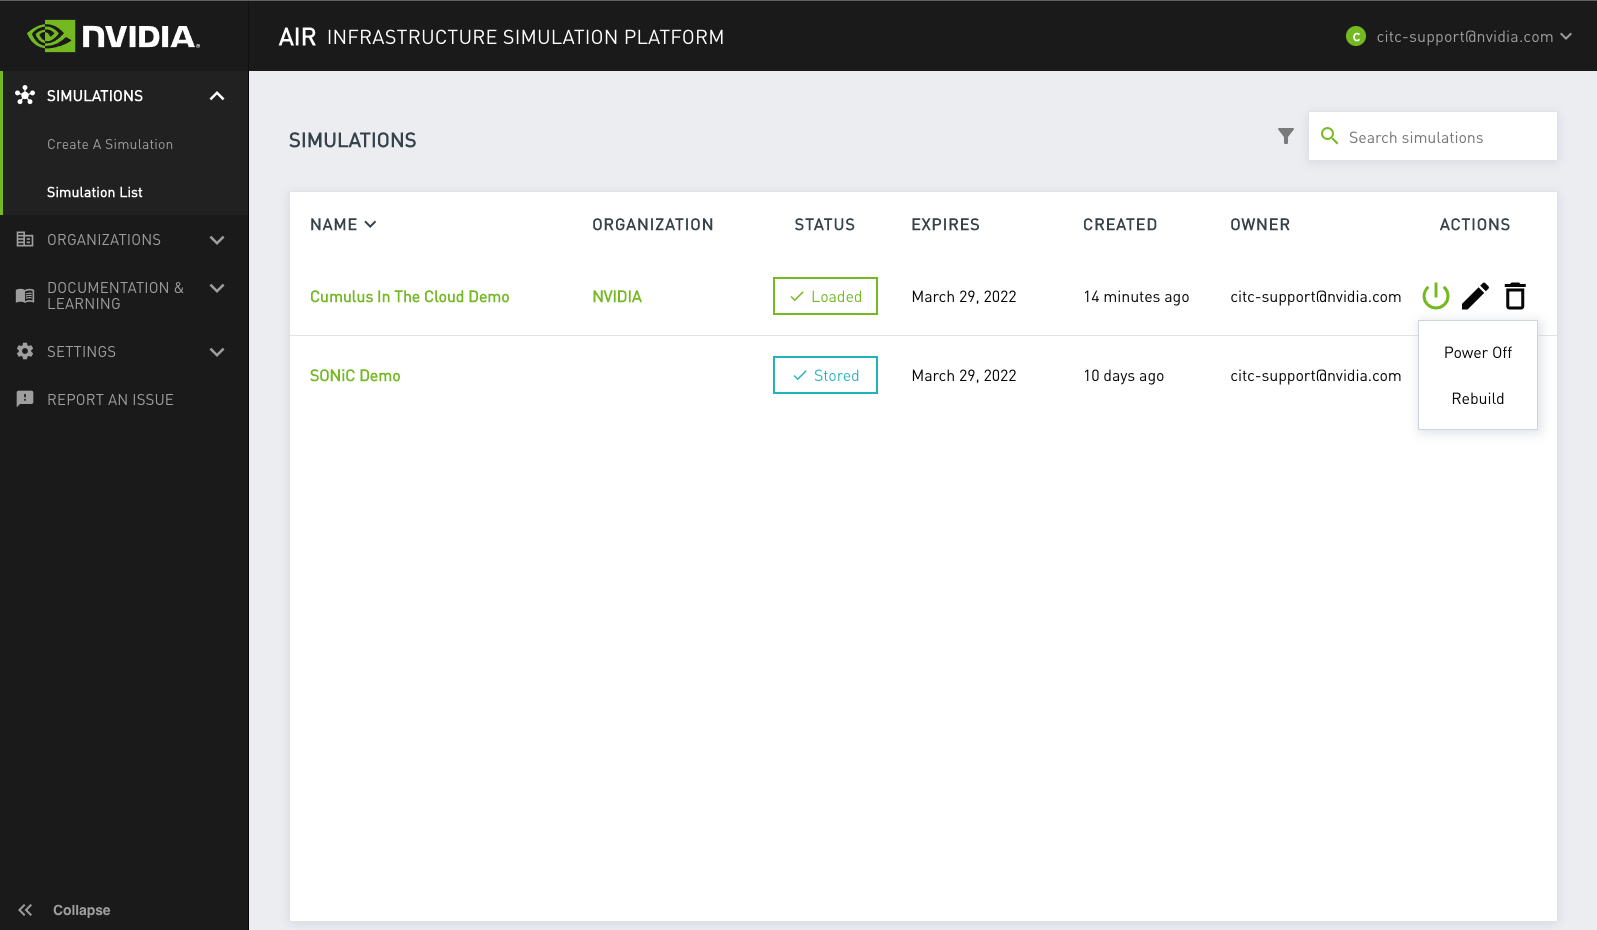
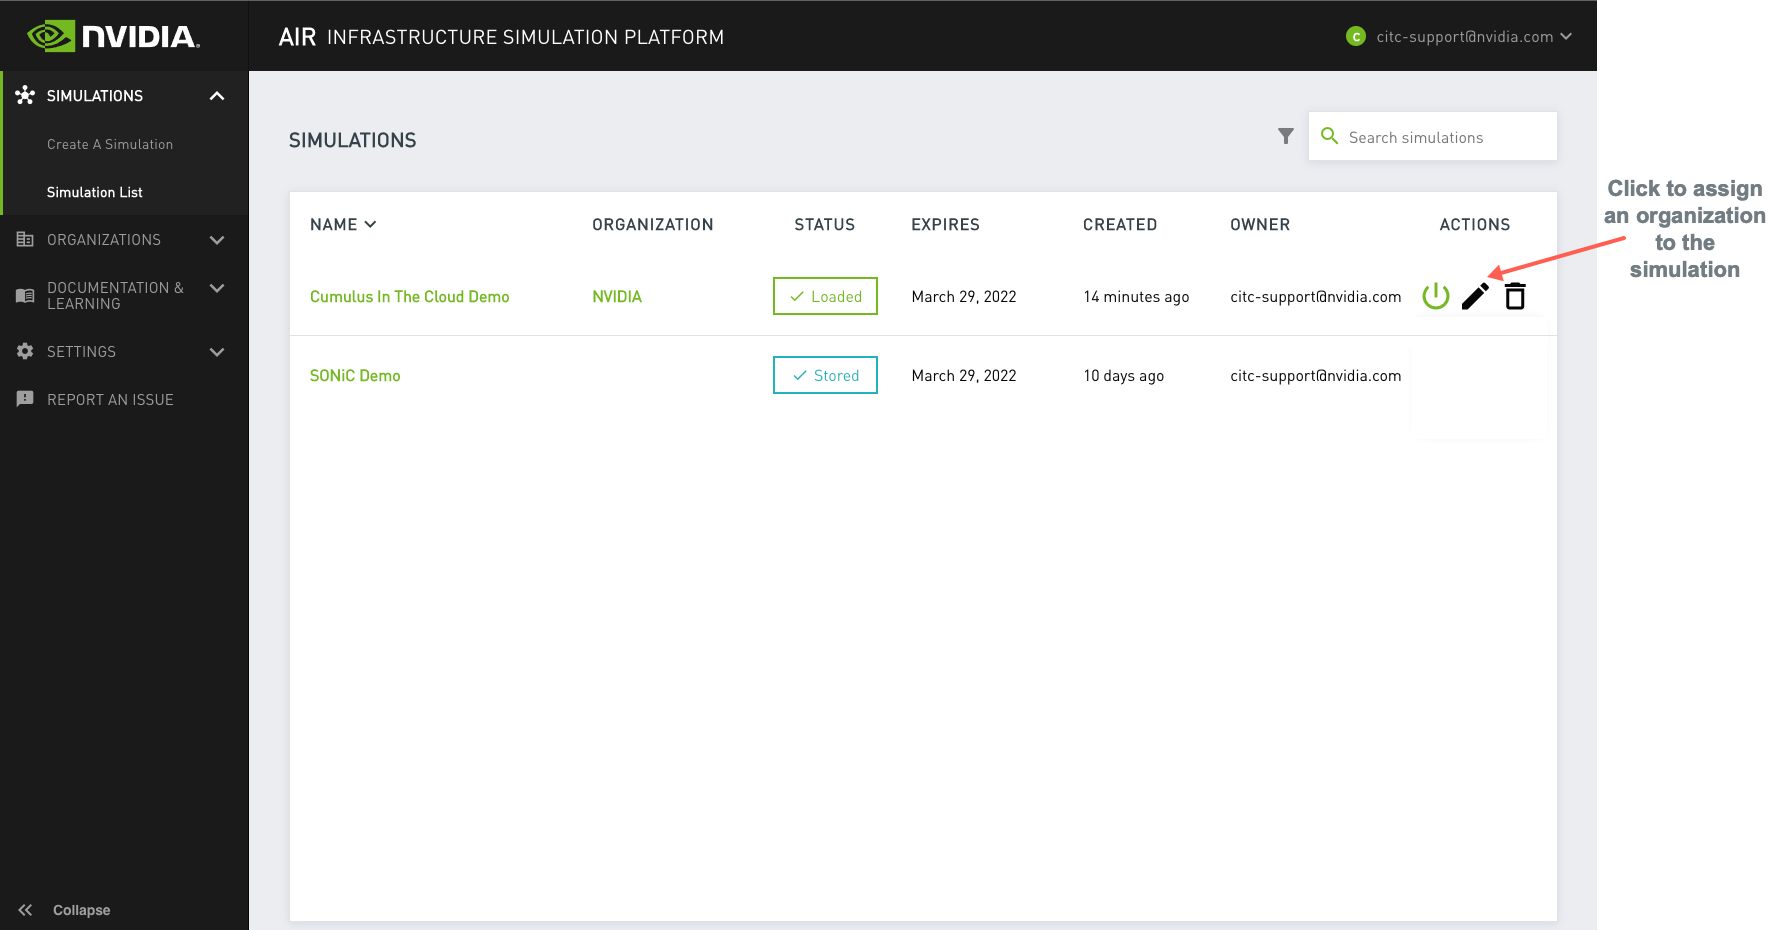
updates

diff --git a/content/guides/nvidia-air/Organizations.md b/content/guides/nvidia-air/Organizations.md
@@ -7,23 +7,23 @@ product: NVIDIA Air
 <!-- vale off -->
 NVIDIA Air supports collaboration so that you can share simulations with your colleagues in an organization. To join an organization, contact your Organization Administrator or your NVIDIA sales team. If you do not know who your Organization Administrator is, reach out to citc-support@nvidia.com.
 <!-- vale on -->
-## Working with organizations
+## Assign Organizations
 
 You can assign each simulation to an organization in which you are a member. All members of the organization can view all assigned simulations.
 
-In the simulation list, the **Organizations** column shows the organization in which the simulation belongs.
+In the simulation list, the **ORGANIZATION** column shows the organization to which the simulation belongs.
 
 {{<img src="/images/guides/nvidia-air/ManagingSim.png" width="800px">}}
 
 <div style="margin-top: 20px;"></div>
 
-To assign a simulation to an organization, use the **ORGANIZATION** dropdown menu from the **EDIT SIMULATION** window.
+To assign a simulation to an organization, click the Edit icon to open the **EDIT SIMULATION** window. Select the organization from the **ORGANIZATION** dropdown menu.
 
 {{<img src="/images/guides/nvidia-air/EditSim.png">}}
 
-## Managing an organization
+## Manage Organizations
 
-As an Organization Administrator, the organization details page show a list of current members, their roles, and the resource utilization for all simulations in the organization.
+As an Organization Administrator, you can view details about each organization, such the list of current members, their roles, and the resource utilization for all simulations in the organization.
 
 {{<img src="/images/guides/nvidia-air/OrgDetails.png">}}
 
@@ -35,7 +35,7 @@ To add a new member, click the **Add Member** button and enter the email address
 
 To remove a member, select **Remove Member** from the actions menu. Removing a member from an organization also moves all their simulations out of the organization.
 
-## Deleting an organization
+## Delete Organizations
 
 To delete an organization, choose the **Delete** option from the actions menu.
 

diff --git a/content/guides/nvidia-air/Pre-Built-Demos.md b/content/guides/nvidia-air/Pre-Built-Demos.md
@@ -10,9 +10,7 @@ NVIDIA Air provides three pre-built demos:
 - Cumulus and SONiC in the Cloud
 - SONiC in the Cloud
 
-All three demos use the NVIDIA Cumulus Linux [reference topology](https://gitlab.com/cumulus-consulting/goldenturtle/cldemo2).
-
-The reference topology provides a common and consistent pre-configured spine and leaf-based network topology, which serves as the basis for all supported NVIDIA demos and golden standards. The reference topology is a blank slate with minimal configuration, and prepares the simulation to receive additional deployment and provisioning that demonstrates a feature or represents a fully operational production network.
+All three demos use the NVIDIA Cumulus Linux [reference topology](https://gitlab.com/cumulus-consulting/goldenturtle/cldemo2-air-builder/), which provides a common and consistent pre-configured spine and leaf-based network topology and serves as the basis for all supported NVIDIA demos and golden standards. The reference topology is a blank slate with minimal configuration, and prepares the simulation to receive additional deployment and provisioning that demonstrates a feature or represents a fully operational production network.
 
 The reference topology provides a complete two-tier spine and leaf topology. It also includes a complete out-of-band management network. The devices include:
 - Four Cumulus Linux spines
@@ -24,8 +22,7 @@ The reference topology provides a complete two-tier spine and leaf topology. It 
 - One Cumulus Linux out-of-band management switch (*oob-switch*)
 - One NVIDIA NetQ Cloud virtual appliance (*netq-ts*)
 
-{{<img src="/images/guides/cldemo2-diagram.png" >}}
-
+<!--{{<img src="/images/guides/cldemo2-diagram.png" >}}-->
 When you start the reference topology simulation environment, all interfaces (except for the out-of-band management network) are not configured and are administratively down. The golden standard configurations and demos provide interface and routing protocol configurations that you can apply to this simulation topology.
 
 ## Cumulus In The Cloud
